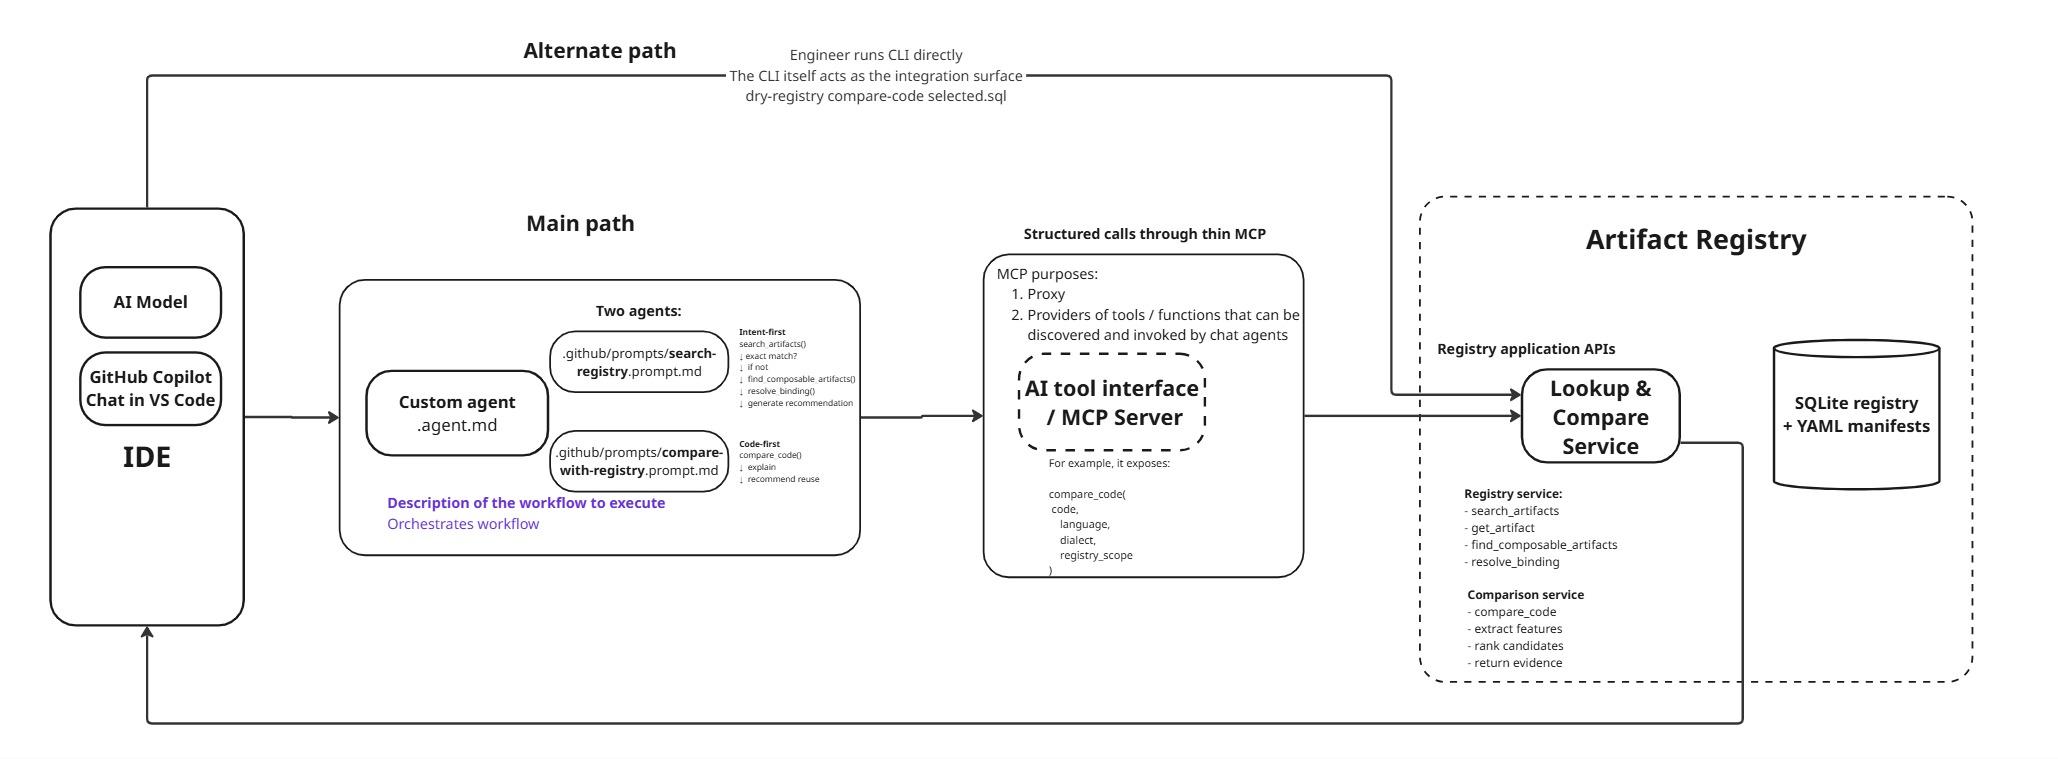
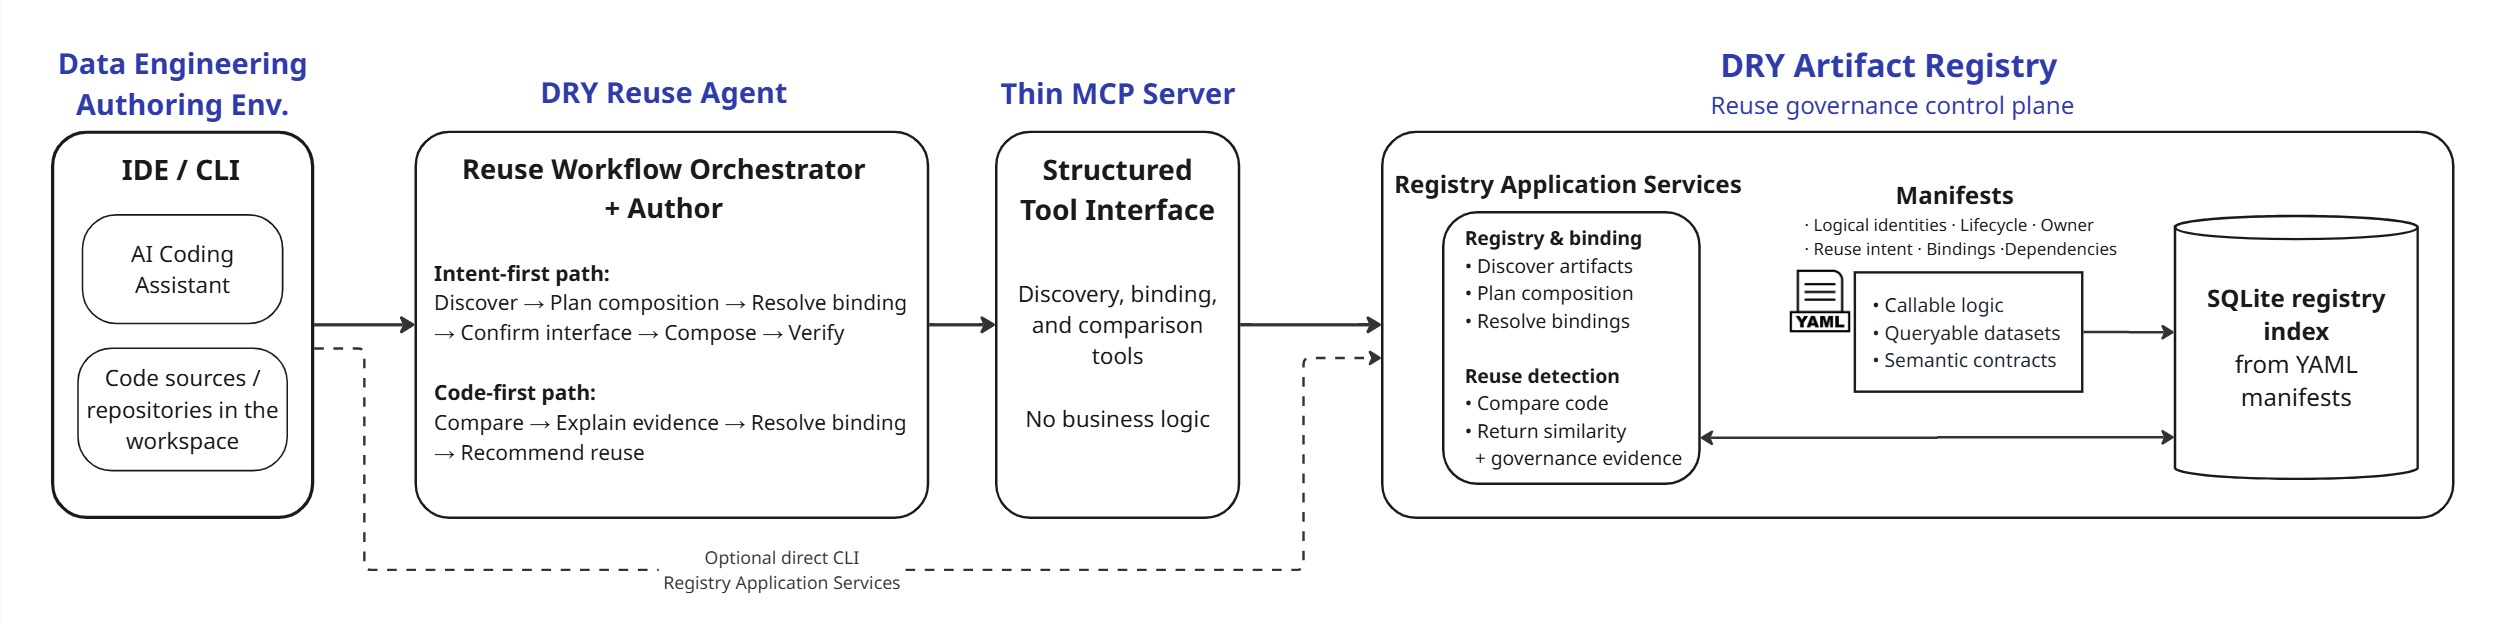
update

diff --git a/registry-aware-authoring/article.md b/registry-aware-authoring/article.md
@@ -32,6 +32,10 @@ The PoC runs the same ARPAC task through four authoring setups and three current
 | **Workspace-only (all existing codebase)** | **Scenario 1C** | The *entire* codebase across every domain — including the certified recognition logic and active-customer definition as source — the most optimistic workspace assumption |
 | **Registry-aware authoring** | **Scenario 2** | The **DRY Artifact Registry**, exposed as structured tools over a thin MCP server and driven by the custom **DRY Reuse agent** |
 
+### Authoring-time Reuse Architecture 
+This diagram depicts what is exposed to an AI coding assistant when an analytics engineer performs their task (Code workspace-only vs Registry-aware authoring)
+![Authoring-time Reuse Architecture](../publications/assets-diagrams/authoring-time-reuse-architecture.jpg)
+
 The prompt is the same business intent in every run: "I need a trailing-90-day ARPAC metric for executive reporting...
 - Numerator = net recognized revenue in USD, over the trailing 90 days, counting *only* active customers
 - Denominator = the count of active customers using the definition used in other executive dashboards... 
@@ -43,7 +47,7 @@ Full prompts and recorded runs are documented in [demo walkthrough](demo-walkthr
 
 ---
 
-## Why exposing the code workspace to AI Coding Asssitant doesn't deliver governed reuse
+## Why exposing only the code workspace to AI Coding Asssitant doesn't deliver governed reuse
 
 ### Scenario 1A — Workspace-only (base tables): the duplication amplifier
 
@@ -92,11 +96,11 @@ AI-assisted authoring makes it cheap to *write* code and to *find* something tha
 
 Scored on the single question — *did it deliver the correct governed ARPAC?* — the workspace-only setups fail for every model:
 
-| Model | 1A (base tables) | 1B (base tables + selected domain repos) | 1C (all existing codebase) | 2 (registry-aware) |
+| Model | 1A (base tables) | 1B (base tables + selected domain repos) | 1C (all existing codebase) | **2 (registry-aware)** |
 |---|:--:|:--:|:--:|:--:|
-| **GPT-5.5** | 27% | 40% | 60% | 100% |
-| **Claude Sonnet 4.6** | 27% | 33% | 67% | 93% |
-| **Claude Opus 4.8** | 27% | 33% | 67% | 93% |
+| **GPT-5.5** | 27% | 40% | 60% | **100%** |
+| **Claude Sonnet 4.6** | 27% | 33% | 67% | **93%** |
+| **Claude Opus 4.8** | 27% | 33% | 67% | **93%** |
 
 Each percentage is the run's score on a 15-point rubric — points awarded across the governed components (recognition, refund netting, currency, activity window, the certified active-customer definition, and correct composition/binding) — expressed as a fraction of the 15 available.
 
@@ -112,11 +116,16 @@ These results are **use-case-specific**, not precise predictions for every metri
 
 The turning point in the PoC is a small **DRY Artifact Registry** — the concept introduced in the [whitepaper](https://michalpru.github.io/data-platform-dry-model/). It is not a new warehouse or catalog. It is a thin **reuse-governance metadata** layer over the repositories, warehouses, and catalogs that already exist, adding only the facts they do not hold: a stable logical identity per artifact, its lifecycle state, reuse intent and scope, owner, and its **implementation bindings** — the physical objects (a warehouse UDF, a dbt macro, a Databricks table/view) that realise the same logical definition across engines and dialects. As the whitepaper describes, it stores manifests for the three reuse interfaces — **callable logic, queryable datasets, and semantic contracts** — as a vendor-neutral reuse architecture. It stores metadata and pointers; it never stores or executes code.
 
-The registry is **not** a code- or data-distribution mechanism and never sits in the query-execution path; its lookup runs over *governance metadata*, not a corpus of source. Where workspace similarity answers *"what looks like this,"* the registry answers what the task turns on: *which definition is authoritative, for what scope, and how do I bind to it from my runtime.* That also answers *"isn't this just RAG?"* A retrieval system could index registry records, but retrieval alone cannot certify an artifact, choose its runtime binding, or hold anyone accountable for it.
+The PoC uses a small **DRY Artifact Registry** — the reuse-governance control plane introduced in the [whitepaper](https://michalpru.github.io/data-platform-dry-model/). It is not a new warehouse, catalog, or code store. It is a vendor-neutral metadata layer that gives each reusable artifact a stable logical identity, lifecycle, reuse scope, owner, and **implementation bindings** — the pointers to the physical objects (warehouse UDFs, dbt macros, Databricks tables, etc.). It governs three reuse interfaces — **callable logic, queryable datasets, and semantic contracts** — through manifests; it never stores the implementation code, and never sits in the query-execution path.
 
-Warehouse- and catalog-backed MCP servers can expose deployed objects, schemas, lineage, and whatever governance metadata their connected systems maintain. They may therefore close the **reachability** gap in Scenarios 1A and 1B, and could provide this capability if they consistently expose the same governed metadata. This PoC does not compare those tools. The registry instead acts as an integration layer: it combines source-control declarations with repository, warehouse, catalog, and lineage signals into one normalized reuse-governance view. That avoids requiring every source system to carry the full metadata set or relying on the AI to infer authority and bindings from disparate signals.
+Workspace code search in the IDE can answer *“what looks similar?”* The registry answers the governed question: *“which definition is approved for this scope, and how is it consumed from this runtime?”* It is not RAG in itself: retrieval can surface registry records, but it cannot by itself certify an artifact, select a runtime binding, or establish ownership and lifecycle accountability.
 
-### What was implemented in the PoC
+Warehouse- and catalog-backed MCP servers may expose deployed objects, schemas, lineage, and some of these governance facts, potentially closing the reachability gap in Scenarios 1A–1C. This PoC does not compare those tools. The registry’s role is to normalize the required reuse-governance metadata from source control, repositories, warehouses, catalogs, and lineage systems, so an assistant need not infer authority or bindings from disparate signals. For background, see [The Missing Control Plane For Reuse Measurement](https://michalpru.github.io/data-platform-dry-model/publications/whitepaper-data-platform-dry-model.html#the-missing-control-plane-for-reuse-measurement).
+
+
+
+
+### What exactly was implemented in the PoC
 
 The PoC exposes the registry to the assistant as a thin, layered stack that maps directly onto Chapter 4 of the whitepaper:
 

diff --git a/registry-aware-authoring/poc-results.md b/registry-aware-authoring/poc-results.md
@@ -42,7 +42,7 @@ and the *marketing* active rule are visible while the certified ones are not, so
 actively leads models toward the wrong artifacts. In **1C** both certified artifacts become visible,
 but the Sales invoice-only look-alike does too: code availability improves the numerator outcome but
 still supplies no authority signal for the denominator. Only in **2** does the registry make that
-authority explicit and resolve its runtime binding. Both domain-local look-alikes
+authority explicit and resolve the artifacts' runtime bindings. Both domain-local look-alikes
 (`sales.active_customer_90d`, `marketing.logic.active_customer`) are themselves registered as
 `domain_canonical`, so in **2** the registry *surfaces* them as **discoverable-and-rejected** —
 like the retired `invoice_revenue` — rather than hiding them; the executive request still resolves
@@ -137,6 +137,11 @@ scored in §4.
 
 Legend: ✅ pattern avoided / correct outcome · ⚠ defensible-but-flawed · ❌ failure pattern hit ·
 `n/a` not reachable in this scenario. Codes in parentheses map to the failure patterns in §2.
+
+These are evidence-based diagnostic matrices, not the scoring rubric: their rows record decisions
+observable in each run, so row counts vary. Scenario 1C has the same source artifacts as Scenario 2;
+what it lacks is the registry's explicit authority, lifecycle, and runtime-binding metadata. The
+fixed seven-component rubric used to score every scenario appears in §4.
 
 ### Scenario 1A — base DWH tables only
 
@@ -330,8 +335,8 @@ which avoids that unsupported join but does not make the selected denominator go
 | Reproducible date (C3, 1) | 1 | 0 | 0 |
 | **Total** | **15 / 15** | **14 / 15** | **14 / 15** |
 
-Only the registry makes the certified inputs reachable, so every model now scores the two
-high-weight components and clears the bar. Sonnet and Opus each lose only the date-reproducibility
+The registry makes the certified inputs' authority and runtime bindings explicit, so every model now
+scores the two high-weight components and clears the bar. Sonnet and Opus each lose only the date-reproducibility
 point (C3, `CURRENT_DATE()`); Sonnet flags the missing Snowflake binding as a required bridge rather
 than shipping a silent cross-engine join, so it keeps full cross-engine credit (C2).
 Namespace and components-grain differences are registry-readiness polish, not correctness, and are
